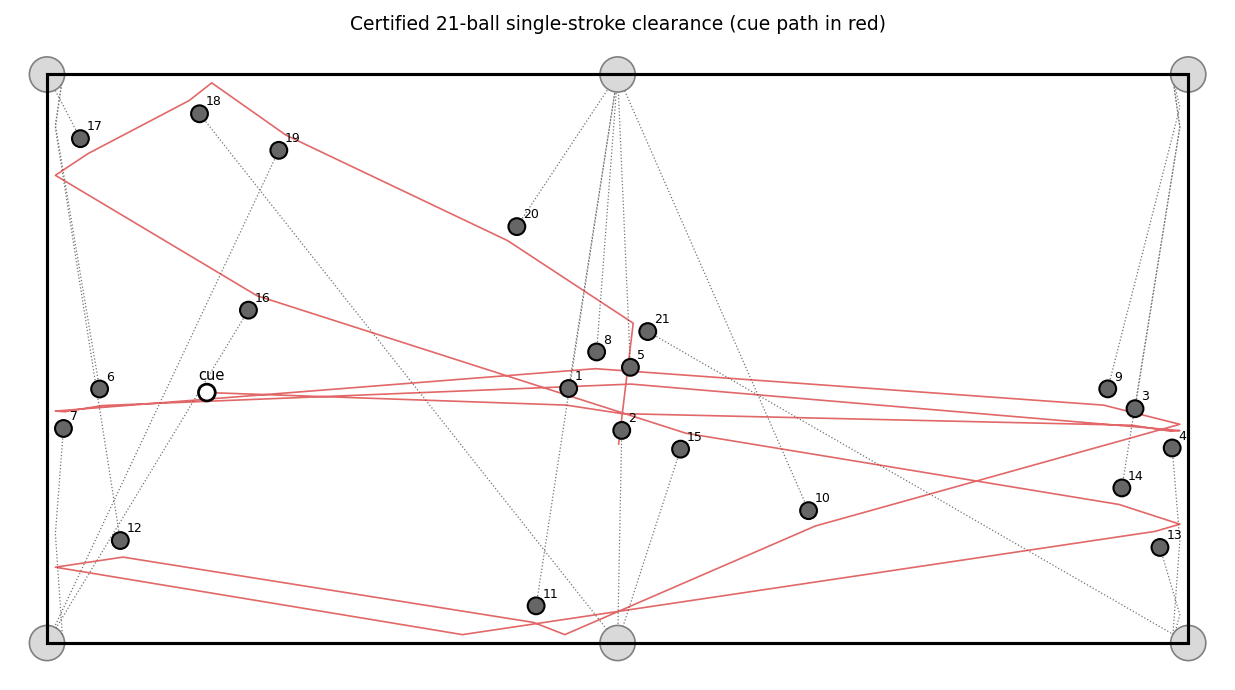
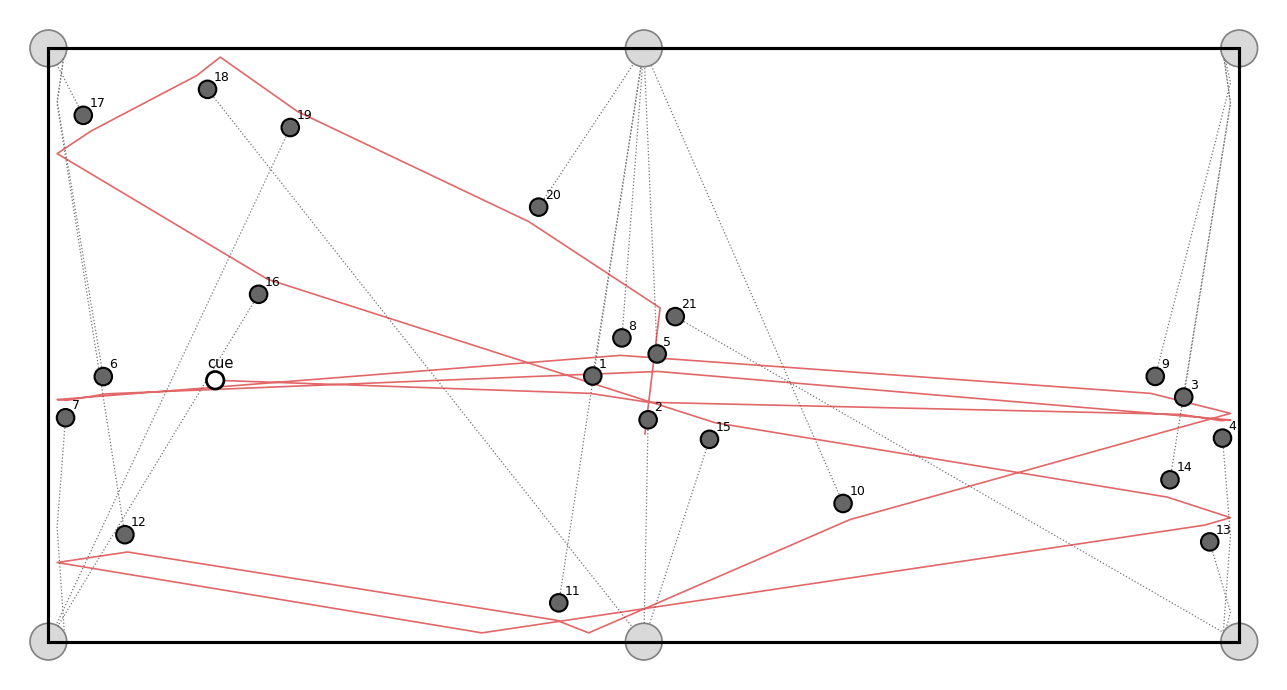
Witness figure: remove the inner title
The caption in the paper describes the figure, so the title drawn
inside the image was redundant.

diff --git a/figures/make_figures.py b/figures/make_figures.py
@@ -83,8 +83,6 @@ def fig_witness(src=os.path.join(ROOT, "proof", "witness_21.json"),
     ax.set_ylim(-0.1, W + 0.1)
     ax.set_aspect("equal")
     ax.axis("off")
-    ax.set_title("Certified 21-ball single-stroke clearance "
-                 "(cue path in red)", fontsize=9)
     fig.tight_layout()
     fig.savefig(out, bbox_inches="tight")
     fig.savefig(out.replace(".pdf", ".png"), dpi=150, bbox_inches="tight")
